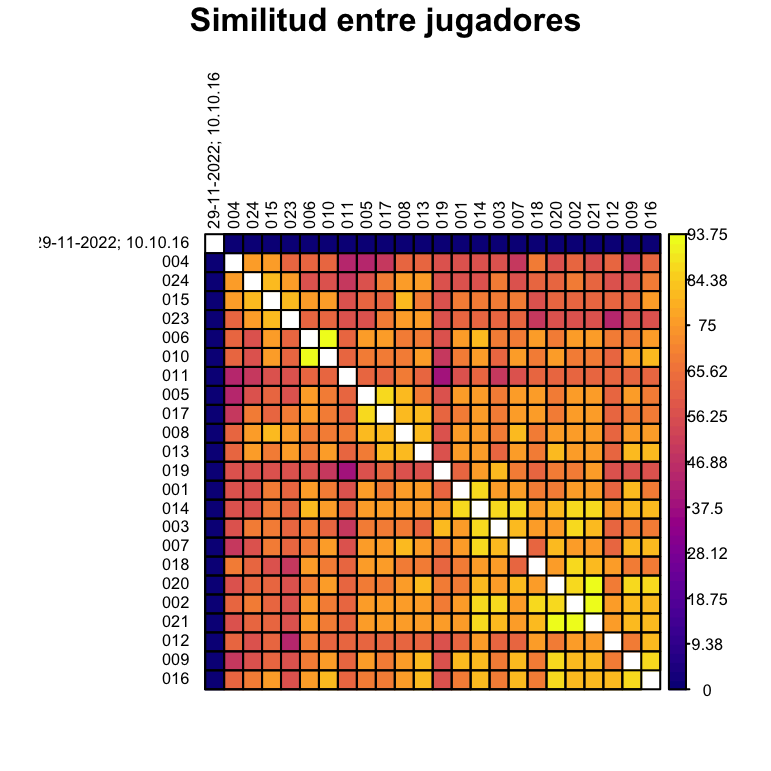
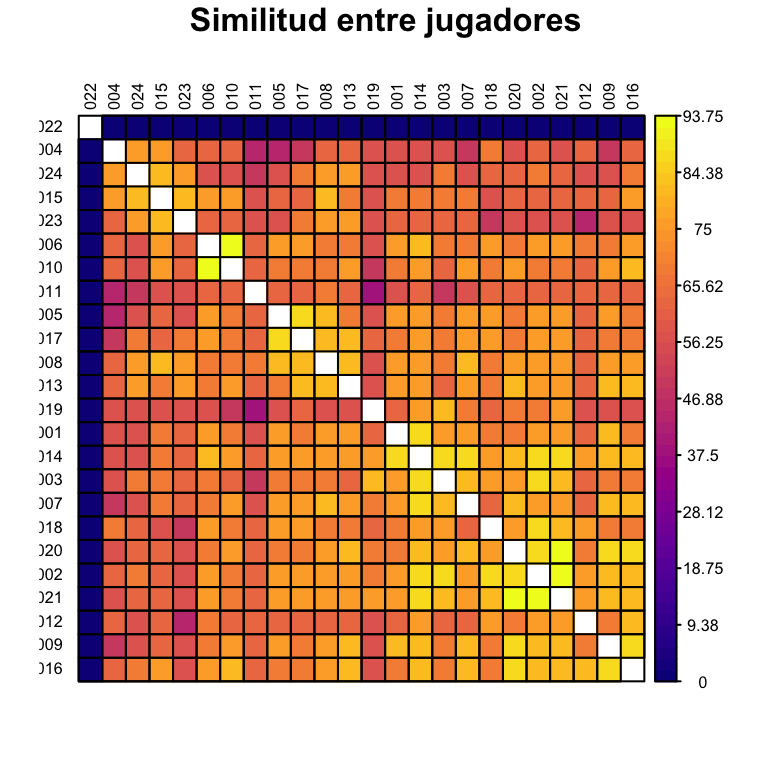
automatic README update

diff --git a/README.md b/README.md
@@ -13,7 +13,7 @@ Este es el repositorio de la quiniela Qatar 2022. Aqui se publicarán las picks 
 
 
 
-Última actualización: Tue 29 Nov 2022 10:32:09 EST.
+Última actualización: Tue 29 Nov 2022 10:34:21 EST.
 
 
 # **Puntuaciones**
@@ -43,32 +43,32 @@ Este es el repositorio de la quiniela Qatar 2022. Aqui se publicarán las picks 
  ## <u>**Picks de la Jornada 3**</u>
  
  
-| numero_participante  | Nombre                        | Ecuador vs Senegal   | Netherlands vs Qatar | Iran vs USA          | Wales vs England     | Tunisia vs France    | Australia vs Denmark | Poland vs Argentina  | Saudi Arabia vs Mexico | Croatia vs Belgium   | Canada vs Morocco    | Japan vs Spain       | Costa Rica vs Germany | Korea vs Portugal    | Ghana vs Uruguay     | Serbia vs Switzerland | Cameroon vs Brazil   |
-| -------------------- | ----------------------------- | -------------------- | -------------------- | -------------------- | -------------------- | -------------------- | -------------------- | -------------------- | ---------------------- | -------------------- | -------------------- | -------------------- | --------------------- | -------------------- | -------------------- | --------------------- | -------------------- |
-| 001                  | Jonathan Gallego Rudolf       | Ecuador              | Netherlands          | USA                  | England              | France               | Denmark              | Argentina            | Mexico                 | Draw                 | Morocco              | Spain                | Germany               | Korea                | Uruguay              | Serbia                | Brazil               |
-| 002                  | Poncho                        | Ecuador              | Netherlands          | Iran                 | England              | France               | Denmark              | Argentina            | Mexico                 | Croatia              | Morocco              | Spain                | Germany               | Portugal             | Uruguay              | Draw                  | Brazil               |
-| 003                  | Habib Echanove                | Ecuador              | Netherlands          | Iran                 | England              | France               | Denmark              | Argentina            | Mexico                 | Draw                 | Morocco              | Spain                | Germany               | Portugal             | Draw                 | Draw                  | Brazil               |
-| 004                  | Jalil                         | Senegal              | Netherlands          | Iran                 | England              | France               | Draw                 | Argentina            | Saudi Arabia           | Belgium              | Draw                 | Spain                | Germany               | Portugal             | Uruguay              | Serbia                | Brazil               |
-| 005                  | Isra                          | Ecuador              | Netherlands          | USA                  | England              | France               | Denmark              | Argentina            | Mexico                 | Croatia              | Morocco              | Spain                | Germany               | Draw                 | Ghana                | Switzerland           | Brazil               |
-| 006                  | Juan Carlos Avendaño Aguilar | Ecuador              | Netherlands          | USA                  | England              | France               | Denmark              | Argentina            | Mexico                 | Belgium              | Canada               | Spain                | Germany               | Portugal             | Uruguay              | Switzerland           | Brazil               |
-| 007                  | Claudio                       | Draw                 | Netherlands          | USA                  | England              | France               | Denmark              | Argentina            | Mexico                 | Draw                 | Morocco              | Spain                | Germany               | Portugal             | Ghana                | Draw                  | Brazil               |
-| 008                  | Héctor Zepeda Reyes          | Senegal              | Netherlands          | USA                  | England              | France               | Denmark              | Argentina            | Mexico                 | Croatia              | Morocco              | Spain                | Germany               | Portugal             | Ghana                | Serbia                | Brazil               |
-| 009                  | Luis Temo Marquez             | Draw                 | Netherlands          | USA                  | England              | France               | Denmark              | Argentina            | Mexico                 | Croatia              | Morocco              | Spain                | Germany               | Korea                | Uruguay              | Draw                  | Brazil               |
-| 010                  | Fosi                          | Draw                 | Netherlands          | USA                  | England              | France               | Denmark              | Argentina            | Mexico                 | Belgium              | Canada               | Spain                | Germany               | Portugal             | Uruguay              | Switzerland           | Brazil               |
-| 011                  | Jacob                         | Senegal              | Netherlands          | USA                  | Draw                 | France               | Denmark              | Poland               | Mexico                 | Croatia              | Morocco              | Japan                | Germany               | Portugal             | Uruguay              | Switzerland           | Brazil               |
-| 012                  | Ibrahim T                     | Ecuador              | Netherlands          | USA                  | England              | France               | Draw                 | Argentina            | Mexico                 | Croatia              | Draw                 | Japan                | Germany               | Portugal             | Uruguay              | Draw                  | Brazil               |
-| 013                  | Ruben                         | Draw                 | Netherlands          | USA                  | England              | France               | Denmark              | Argentina            | Draw                   | Croatia              | Morocco              | Spain                | Germany               | Portugal             | Uruguay              | Serbia                | Brazil               |
-| 014                  | Valentin                      | Ecuador              | Netherlands          | USA                  | England              | France               | Denmark              | Argentina            | Mexico                 | Draw                 | Morocco              | Spain                | Germany               | Portugal             | Uruguay              | Draw                  | Brazil               |
-| 015                  | Daniel Jimenez                | Senegal              | Netherlands          | USA                  | England              | France               | Denmark              | Argentina            | Mexico                 | Belgium              | Draw                 | Spain                | Germany               | Portugal             | Draw                 | Serbia                | Brazil               |
-| 016                  | Ernie                         | Draw                 | Netherlands          | USA                  | England              | France               | Denmark              | Argentina            | Mexico                 | Croatia              | Draw                 | Spain                | Germany               | Portugal             | Uruguay              | Draw                  | Brazil               |
-| 017                  | Bobacao                       | Ecuador              | Netherlands          | USA                  | England              | France               | Denmark              | Argentina            | Draw                   | Croatia              | Morocco              | Spain                | Germany               | Portugal             | Ghana                | Switzerland           | Brazil               |
-| 018                  | Eduardo Rafael Palacios Rejon | Ecuador              | Netherlands          | Iran                 | England              | France               | Draw                 | Argentina            | Mexico                 | Croatia              | Morocco              | Spain                | Germany               | Portugal             | Uruguay              | Switzerland           | Brazil               |
-| 019                  | Diego Angeles-Valdez          | Ecuador              | Netherlands          | Draw                 | England              | France               | Australia            | Argentina            | Saudi Arabia           | Draw                 | Morocco              | Spain                | Germany               | Portugal             | Draw                 | Draw                  | Brazil               |
-| 020                  | Luis Llamas                   | Draw                 | Netherlands          | Draw                 | England              | France               | Denmark              | Argentina            | Mexico                 | Croatia              | Morocco              | Spain                | Germany               | Portugal             | Uruguay              | Draw                  | Brazil               |
-| 021                  | German Jair                   | Ecuador              | Netherlands          | Draw                 | England              | France               | Denmark              | Argentina            | Mexico                 | Croatia              | Morocco              | Spain                | Germany               | Portugal             | Uruguay              | Draw                  | Brazil               |
-| 023                  | Adam                          | Senegal              | Netherlands          | USA                  | Wales                | France               | Denmark              | Argentina            | Draw                   | Belgium              | Morocco              | Spain                | Germany               | Portugal             | Draw                 | Serbia                | Brazil               |
-| 024                  | Ahmed Felfel                  | Senegal              | Netherlands          | Iran                 | England              | France               | Denmark              | Argentina            | Draw                   | Croatia              | Draw                 | Spain                | Germany               | Portugal             | Draw                 | Serbia                | Brazil               |
-| 29-11-2022; 10.10.16 | 29-11-2022; 10.10.16          | 29-11-2022; 10.10.16 | 29-11-2022; 10.10.16 | 29-11-2022; 10.10.16 | 29-11-2022; 10.10.16 | 29-11-2022; 10.10.16 | 29-11-2022; 10.10.16 | 29-11-2022; 10.10.16 | 29-11-2022; 10.10.16   | 29-11-2022; 10.10.16 | 29-11-2022; 10.10.16 | 29-11-2022; 10.10.16 | 29-11-2022; 10.10.16  | 29-11-2022; 10.10.16 | 29-11-2022; 10.10.16 | 29-11-2022; 10.10.16  | 29-11-2022; 10.10.16 |
+| numero_participante | Nombre                        | Ecuador vs Senegal   | Netherlands vs Qatar | Iran vs USA          | Wales vs England     | Tunisia vs France    | Australia vs Denmark | Poland vs Argentina  | Saudi Arabia vs Mexico | Croatia vs Belgium   | Canada vs Morocco    | Japan vs Spain       | Costa Rica vs Germany | Korea vs Portugal    | Ghana vs Uruguay     | Serbia vs Switzerland | Cameroon vs Brazil   |
+| ------------------- | ----------------------------- | -------------------- | -------------------- | -------------------- | -------------------- | -------------------- | -------------------- | -------------------- | ---------------------- | -------------------- | -------------------- | -------------------- | --------------------- | -------------------- | -------------------- | --------------------- | -------------------- |
+| 001                 | Jonathan Gallego Rudolf       | Ecuador              | Netherlands          | USA                  | England              | France               | Denmark              | Argentina            | Mexico                 | Draw                 | Morocco              | Spain                | Germany               | Korea                | Uruguay              | Serbia                | Brazil               |
+| 002                 | Poncho                        | Ecuador              | Netherlands          | Iran                 | England              | France               | Denmark              | Argentina            | Mexico                 | Croatia              | Morocco              | Spain                | Germany               | Portugal             | Uruguay              | Draw                  | Brazil               |
+| 003                 | Habib Echanove                | Ecuador              | Netherlands          | Iran                 | England              | France               | Denmark              | Argentina            | Mexico                 | Draw                 | Morocco              | Spain                | Germany               | Portugal             | Draw                 | Draw                  | Brazil               |
+| 004                 | Jalil                         | Senegal              | Netherlands          | Iran                 | England              | France               | Draw                 | Argentina            | Saudi Arabia           | Belgium              | Draw                 | Spain                | Germany               | Portugal             | Uruguay              | Serbia                | Brazil               |
+| 005                 | Isra                          | Ecuador              | Netherlands          | USA                  | England              | France               | Denmark              | Argentina            | Mexico                 | Croatia              | Morocco              | Spain                | Germany               | Draw                 | Ghana                | Switzerland           | Brazil               |
+| 006                 | Juan Carlos Avendaño Aguilar | Ecuador              | Netherlands          | USA                  | England              | France               | Denmark              | Argentina            | Mexico                 | Belgium              | Canada               | Spain                | Germany               | Portugal             | Uruguay              | Switzerland           | Brazil               |
+| 007                 | Claudio                       | Draw                 | Netherlands          | USA                  | England              | France               | Denmark              | Argentina            | Mexico                 | Draw                 | Morocco              | Spain                | Germany               | Portugal             | Ghana                | Draw                  | Brazil               |
+| 008                 | Héctor Zepeda Reyes          | Senegal              | Netherlands          | USA                  | England              | France               | Denmark              | Argentina            | Mexico                 | Croatia              | Morocco              | Spain                | Germany               | Portugal             | Ghana                | Serbia                | Brazil               |
+| 009                 | Luis Temo Marquez             | Draw                 | Netherlands          | USA                  | England              | France               | Denmark              | Argentina            | Mexico                 | Croatia              | Morocco              | Spain                | Germany               | Korea                | Uruguay              | Draw                  | Brazil               |
+| 010                 | Fosi                          | Draw                 | Netherlands          | USA                  | England              | France               | Denmark              | Argentina            | Mexico                 | Belgium              | Canada               | Spain                | Germany               | Portugal             | Uruguay              | Switzerland           | Brazil               |
+| 011                 | Jacob                         | Senegal              | Netherlands          | USA                  | Draw                 | France               | Denmark              | Poland               | Mexico                 | Croatia              | Morocco              | Japan                | Germany               | Portugal             | Uruguay              | Switzerland           | Brazil               |
+| 012                 | Ibrahim T                     | Ecuador              | Netherlands          | USA                  | England              | France               | Draw                 | Argentina            | Mexico                 | Croatia              | Draw                 | Japan                | Germany               | Portugal             | Uruguay              | Draw                  | Brazil               |
+| 013                 | Ruben                         | Draw                 | Netherlands          | USA                  | England              | France               | Denmark              | Argentina            | Draw                   | Croatia              | Morocco              | Spain                | Germany               | Portugal             | Uruguay              | Serbia                | Brazil               |
+| 014                 | Valentin                      | Ecuador              | Netherlands          | USA                  | England              | France               | Denmark              | Argentina            | Mexico                 | Draw                 | Morocco              | Spain                | Germany               | Portugal             | Uruguay              | Draw                  | Brazil               |
+| 015                 | Daniel Jimenez                | Senegal              | Netherlands          | USA                  | England              | France               | Denmark              | Argentina            | Mexico                 | Belgium              | Draw                 | Spain                | Germany               | Portugal             | Draw                 | Serbia                | Brazil               |
+| 016                 | Ernie                         | Draw                 | Netherlands          | USA                  | England              | France               | Denmark              | Argentina            | Mexico                 | Croatia              | Draw                 | Spain                | Germany               | Portugal             | Uruguay              | Draw                  | Brazil               |
+| 017                 | Bobacao                       | Ecuador              | Netherlands          | USA                  | England              | France               | Denmark              | Argentina            | Draw                   | Croatia              | Morocco              | Spain                | Germany               | Portugal             | Ghana                | Switzerland           | Brazil               |
+| 018                 | Eduardo Rafael Palacios Rejon | Ecuador              | Netherlands          | Iran                 | England              | France               | Draw                 | Argentina            | Mexico                 | Croatia              | Morocco              | Spain                | Germany               | Portugal             | Uruguay              | Switzerland           | Brazil               |
+| 019                 | Diego Angeles-Valdez          | Ecuador              | Netherlands          | Draw                 | England              | France               | Australia            | Argentina            | Saudi Arabia           | Draw                 | Morocco              | Spain                | Germany               | Portugal             | Draw                 | Draw                  | Brazil               |
+| 020                 | Luis Llamas                   | Draw                 | Netherlands          | Draw                 | England              | France               | Denmark              | Argentina            | Mexico                 | Croatia              | Morocco              | Spain                | Germany               | Portugal             | Uruguay              | Draw                  | Brazil               |
+| 021                 | German Jair                   | Ecuador              | Netherlands          | Draw                 | England              | France               | Denmark              | Argentina            | Mexico                 | Croatia              | Morocco              | Spain                | Germany               | Portugal             | Uruguay              | Draw                  | Brazil               |
+| 022                 | Colin                         | 29-11-2022; 10.10.16 | 29-11-2022; 10.10.16 | 29-11-2022; 10.10.16 | 29-11-2022; 10.10.16 | 29-11-2022; 10.10.16 | 29-11-2022; 10.10.16 | 29-11-2022; 10.10.16 | 29-11-2022; 10.10.16   | 29-11-2022; 10.10.16 | 29-11-2022; 10.10.16 | 29-11-2022; 10.10.16 | 29-11-2022; 10.10.16  | 29-11-2022; 10.10.16 | 29-11-2022; 10.10.16 | 29-11-2022; 10.10.16  | 29-11-2022; 10.10.16 |
+| 023                 | Adam                          | Senegal              | Netherlands          | USA                  | Wales                | France               | Denmark              | Argentina            | Draw                   | Belgium              | Morocco              | Spain                | Germany               | Portugal             | Draw                 | Serbia                | Brazil               |
+| 024                 | Ahmed Felfel                  | Senegal              | Netherlands          | Iran                 | England              | France               | Denmark              | Argentina            | Draw                   | Croatia              | Draw                 | Spain                | Germany               | Portugal             | Draw                 | Serbia                | Brazil               |
 ### Gráficos
 
 ![](media/picks_GS3.png )
@@ -82,13 +82,13 @@ Este es el repositorio de la quiniela Qatar 2022. Aqui se publicarán las picks 
 Este es el top 5 de jugadores que más cambiarán su posición en la tabla tras concluir la ronda: 
 
 
-| numero_participante  | Nombre               |
-| -------------------- | -------------------- |
-| 29-11-2022; 10.10.16 | 29-11-2022; 10.10.16 |
-| 011                  | Jacob                |
-| 004                  | Jalil                |
-| 019                  | Diego Angeles-Valdez |
-| 023                  | Adam                 |
+| numero_participante | Nombre               |
+| ------------------- | -------------------- |
+| 022                 | Colin                |
+| 011                 | Jacob                |
+| 004                 | Jalil                |
+| 019                 | Diego Angeles-Valdez |
+| 023                 | Adam                 |
  --- 
 
  ## <u>**Picks de la Jornada 2**</u>
